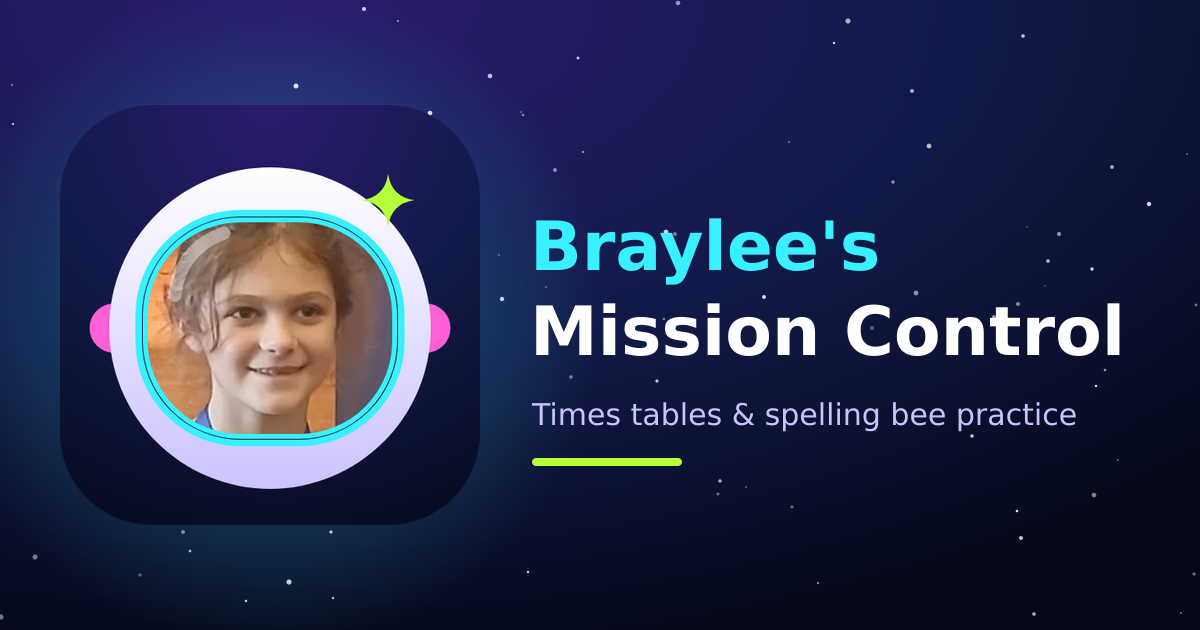
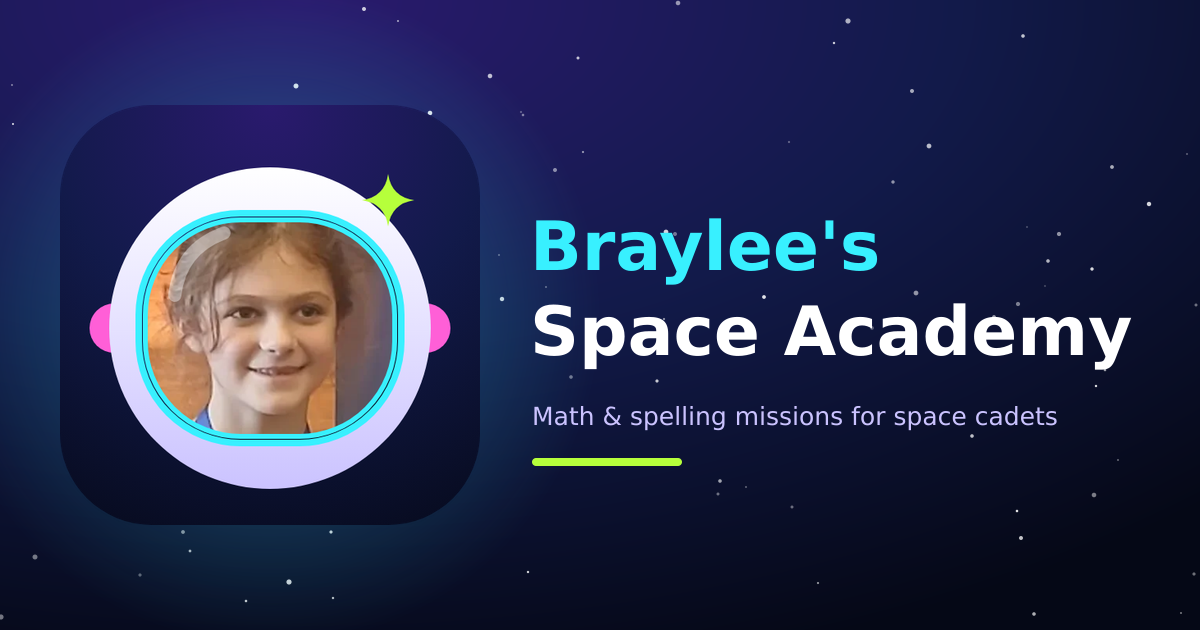
Rename the app to Braylee's Space Academy
New name and tagline across the wordmark, page title, description, Open Graph
and Twitter metadata, web manifest, README and the regenerated share image.

Changed region(s): [[0.4317, 0.4825, 0.9558, 0.6032], [0.4317, 0.6333, 0.8942, 0.6937]]

diff --git a/app/layout.jsx b/app/layout.jsx
@@ -9,12 +9,12 @@ const SITE_URL = process.env.VERCEL_PROJECT_PRODUCTION_URL
 
 export const metadata = {
   metadataBase: new URL(SITE_URL),
-  title: { default: "Braylee's Mission Control", template: "%s · Braylee's Mission Control" },
-  description: "Times tables and spelling bee practice for kids",
-  applicationName: "Braylee's Mission Control",
-  appleWebApp: { title: 'Braylee', capable: true, statusBarStyle: 'black-translucent' },
-  openGraph: { siteName: "Braylee's Mission Control", type: 'website' },
-  twitter: { card: 'summary_large_image' },
+  title: { default: "Braylee's Space Academy", template: "%s · Braylee's Space Academy" },
+  description: "Math & spelling missions for space cadets",
+  applicationName: "Braylee's Space Academy",
+  appleWebApp: { title: 'Space Academy', capable: true, statusBarStyle: 'black-translucent' },
+  openGraph: { siteName: "Braylee's Space Academy", title: "Braylee's Space Academy", description: "Math & spelling missions for space cadets", type: 'website' },
+  twitter: { card: 'summary_large_image', title: "Braylee's Space Academy", description: "Math & spelling missions for space cadets" },
 };
 
 export const viewport = {

diff --git a/tests/manifest.test.js b/tests/manifest.test.js
@@ -7,11 +7,11 @@ const m = manifest();
 
 describe('web app manifest', () => {
   it("is named after Braylee", () => {
-    expect(m.name).toBe("Braylee's Mission Control");
-    expect(m.short_name).toBe('Braylee');
+    expect(m.name).toBe("Braylee's Space Academy");
+    expect(m.short_name).toBe('Space Academy');
   });
   it('keeps short_name short enough for a home screen', () => {
-    expect(m.short_name.length).toBeLessThanOrEqual(12);
+    expect(m.short_name.length).toBeLessThanOrEqual(14);
   });
   it('lists any and maskable icons that exist on disk', () => {
     expect(m.icons.map((i) => i.purpose)).toEqual(expect.arrayContaining(['any', 'maskable']));

diff --git a/components/braylee/Wordmark.jsx b/components/braylee/Wordmark.jsx
@@ -1,12 +1,12 @@
 /**
- * "Braylee's Mission Control" wordmark (text only; Braylee's face lives in the host astronaut).
+ * "Braylee's Space Academy" wordmark (text only; Braylee's face lives in the host astronaut).
  *   as         element: 'p' (default) or 'h1' when it is the page heading.
  *   className  extra classes.
  */
 export default function Wordmark({ as: Tag = 'p', className = '' }) {
   return (
     <Tag data-testid="wordmark" className={`text-balance text-center text-title font-bold leading-tight text-neon-cyan text-glow ${className}`}>
-      Braylee&apos;s Mission Control
+      Braylee&apos;s Space Academy
     </Tag>
   );
 }

diff --git a/tests/wordmark.test.js b/tests/wordmark.test.js
@@ -6,7 +6,7 @@ import Wordmark from '../components/braylee/Wordmark';
 describe('Wordmark', () => {
   it('renders the wordmark as a paragraph by default, without a face image', () => {
     const html = renderToStaticMarkup(createElement(Wordmark));
-    expect(html).toMatch(/<p [^>]*>Braylee&#x27;s Mission Control<\/p>/);
+    expect(html).toMatch(/<p [^>]*>Braylee&#x27;s Space Academy<\/p>/);
     expect(html).not.toContain('<img');
   });
   it('can be the page heading', () => {

diff --git a/app/manifest.js b/app/manifest.js
@@ -1,8 +1,8 @@
 export default function manifest() {
   return {
-    name: "Braylee's Mission Control",
-    short_name: 'Braylee',
-    description: 'Times tables and spelling bee practice for kids',
+    name: "Braylee's Space Academy",
+    short_name: 'Space Academy',
+    description: 'Math & spelling missions for space cadets',
     start_url: '/',
     display: 'standalone',
     background_color: '#050816',

diff --git a/README.md b/README.md
@@ -1,4 +1,6 @@
-Braylee's Times Tables — Next.js
+Braylee's Space Academy — Next.js
+
+Math & spelling missions for space cadets.
 
 This is a Next.js port of the existing Vite + Express app in `../braylees_times_table`, preserving the same features:
 
